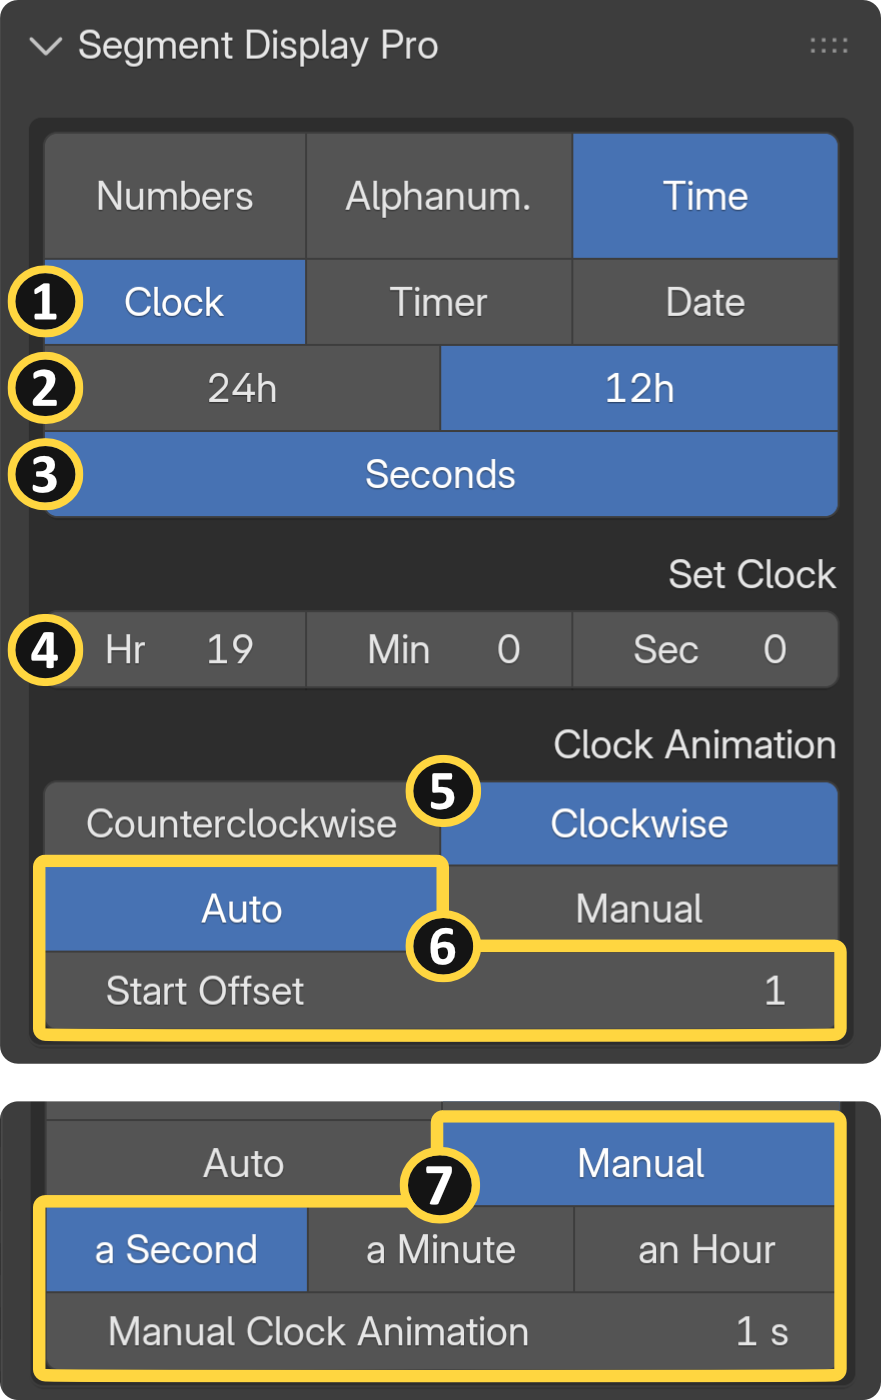
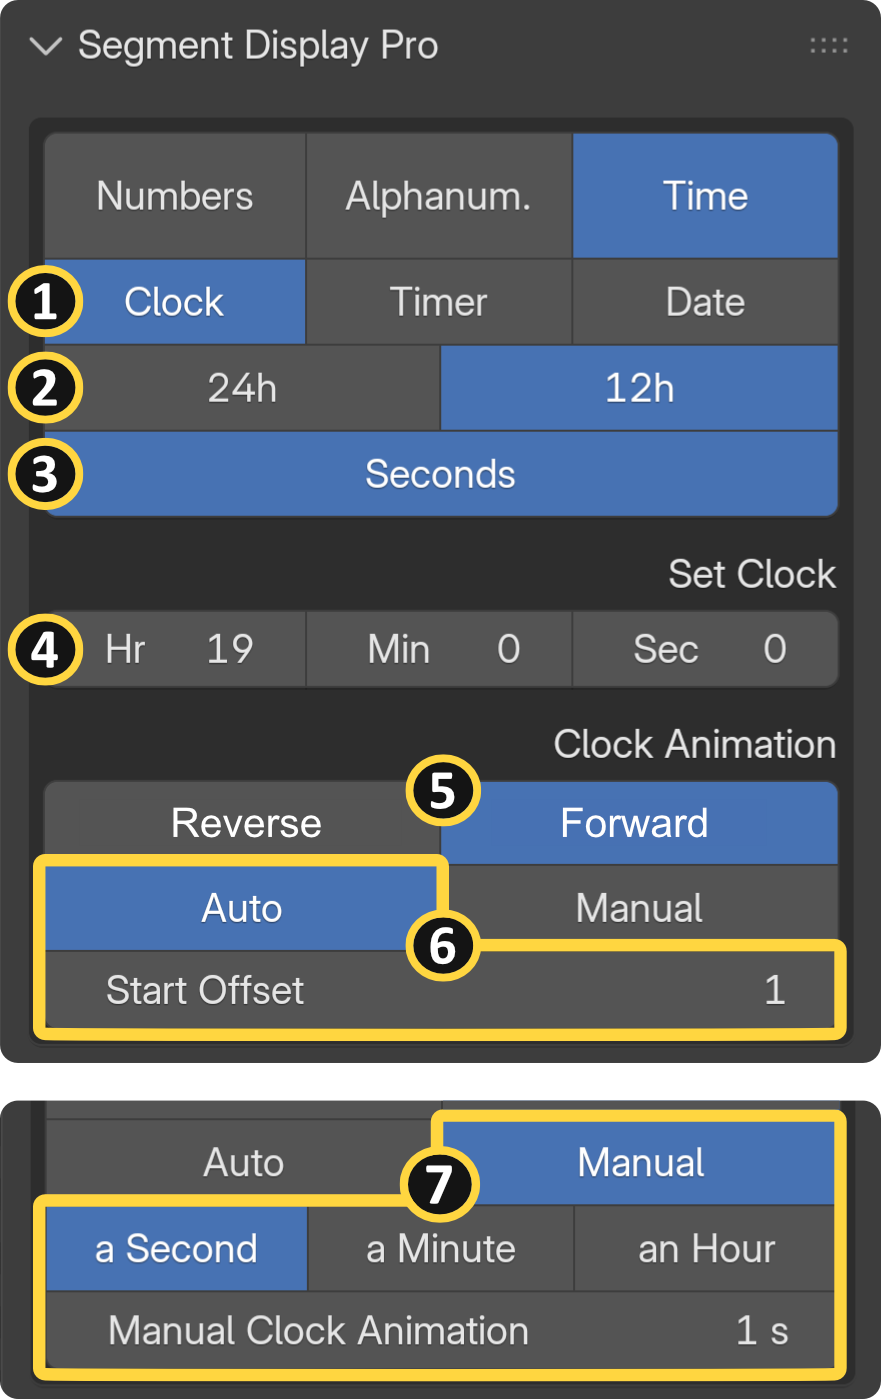
[Rename] "Clockwise / Counterclockwise" to "Reverse / Forward"

Changed region(s): [[0.0919, 0.5533, 0.4597, 0.6147], [0.6129, 0.5533, 0.8275, 0.6147]]

diff --git a/docs/in_cat_time.md b/docs/in_cat_time.md
@@ -23,7 +23,7 @@ Build realistic digital clocks effortlessly. You can manually input the exact Ho
 
 **[4] Initial Time:** In this example, an initial time of 19:00 is entered. Since 12-hour format is selected, the display shows 07:00.
 
-**[5] Time Direction:** You can reverse the flow of time by switching the animation direction between Clockwise and Counterclockwise.
+**[5] Clock Direction:** You can reverse the flow of time by switching the animation direction between `Reverse` and `Forward`.
 
 **[6] Auto Time Animation:** The clock starts when you hit play in the scene. **Start Offset** lets you specify the exact frame number at which the animation begins playing back.
 
